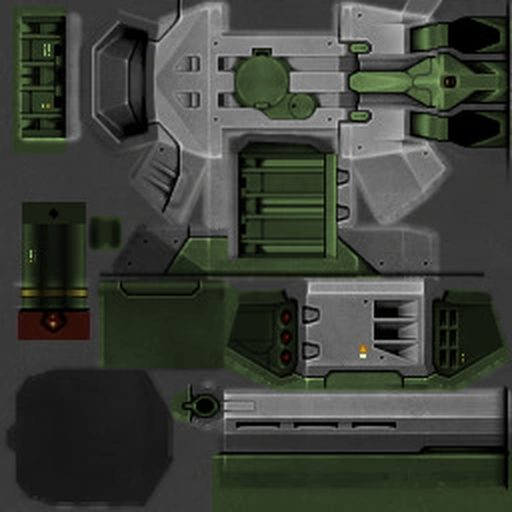
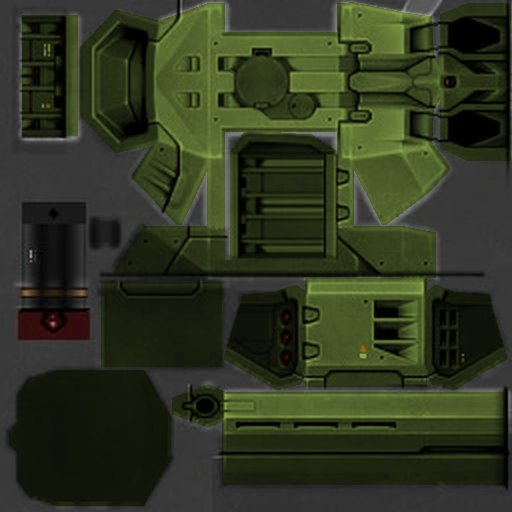
Rebuild Terminator texture: olive default, paint mask covers whole turret+barrels, brighter lightmap, cache v=3

diff --git a/public/index.html b/public/index.html
@@ -175,10 +175,10 @@ function makeProcTank(type,skin){if(type=='wasp')return makeWasp(skin||'redgold'
 
 // ---- real models (GLTF) with procedural fallback ----
 const MODELS={};const ML=new GLTFLoader();
-const MDEF={hornet:{url:'models/m3/hornet.gltf',len:3.7},wasp:{url:'models/m3/wasp.gltf',len:3.5},tur:{url:'models/m3/turret.gltf'},hornet_xt:{url:'models/m3/hornet_xt.gltf?v=5',len:3.7},wasp_xt:{url:'models/m3/wasp_xt.gltf?v=5',len:3.5},tur_xt:{url:'models/m3/flash.gltf'},hornet_20:{url:'models/m3/hornet_20.gltf?v=5',len:3.7},wasp_20:{url:'models/m3/wasp_20.gltf?v=5',len:3.5},tur_20:{url:'models/m3/rail20.gltf'},tur_rz:{url:'models/m3/term20.gltf?v=2'}};
+const MDEF={hornet:{url:'models/m3/hornet.gltf',len:3.7},wasp:{url:'models/m3/wasp.gltf',len:3.5},tur:{url:'models/m3/turret.gltf'},hornet_xt:{url:'models/m3/hornet_xt.gltf?v=5',len:3.7},wasp_xt:{url:'models/m3/wasp_xt.gltf?v=5',len:3.5},tur_xt:{url:'models/m3/flash.gltf'},hornet_20:{url:'models/m3/hornet_20.gltf?v=5',len:3.7},wasp_20:{url:'models/m3/wasp_20.gltf?v=5',len:3.5},tur_20:{url:'models/m3/rail20.gltf'},tur_rz:{url:'models/m3/term20.gltf?v=3'}};
 const IMG={};
 const loadImg=(k,u)=>new Promise(r=>{const i=new Image();i.onload=()=>{IMG[k]=i;r()};i.onerror=r;i.src=u});
-const IMGS={};PAINTS.forEach(p=>{if(p!=='p11')IMGS[p]='models/paints/'+p+'.jpg'});['wasp','hornet','turret','wasp_xt','hornet_xt','flash','wasp_20','hornet_20','rail20','term20'].forEach(k=>{IMGS[k+'_l']='models/m3/'+k+'_light.jpg';IMGS[k+'_d']='models/m3/'+k+'_det.png'});
+const IMGS={};PAINTS.forEach(p=>{if(p!=='p11')IMGS[p]='models/paints/'+p+'.jpg'});['wasp','hornet','turret','wasp_xt','hornet_xt','flash','wasp_20','hornet_20','rail20','term20'].forEach(k=>{const q=k==='term20'?'?v=3':'';IMGS[k+'_l']='models/m3/'+k+'_light.jpg'+q;IMGS[k+'_d']='models/m3/'+k+'_det.png'+q});
 const loadP=Promise.all(Object.keys(MDEF).map(k=>new Promise(r=>{ML.load(MDEF[k].url,g=>{MODELS[k]=g.scene;r()},undefined,()=>r())})).concat(Object.keys(IMGS).map(k=>loadImg(k,IMGS[k])))).catch(()=>{});
 const paintCache={};
 // animated paint p11: seamless flowing neon plasma (128px tile, integer spatial frequencies => tiles seamlessly)
